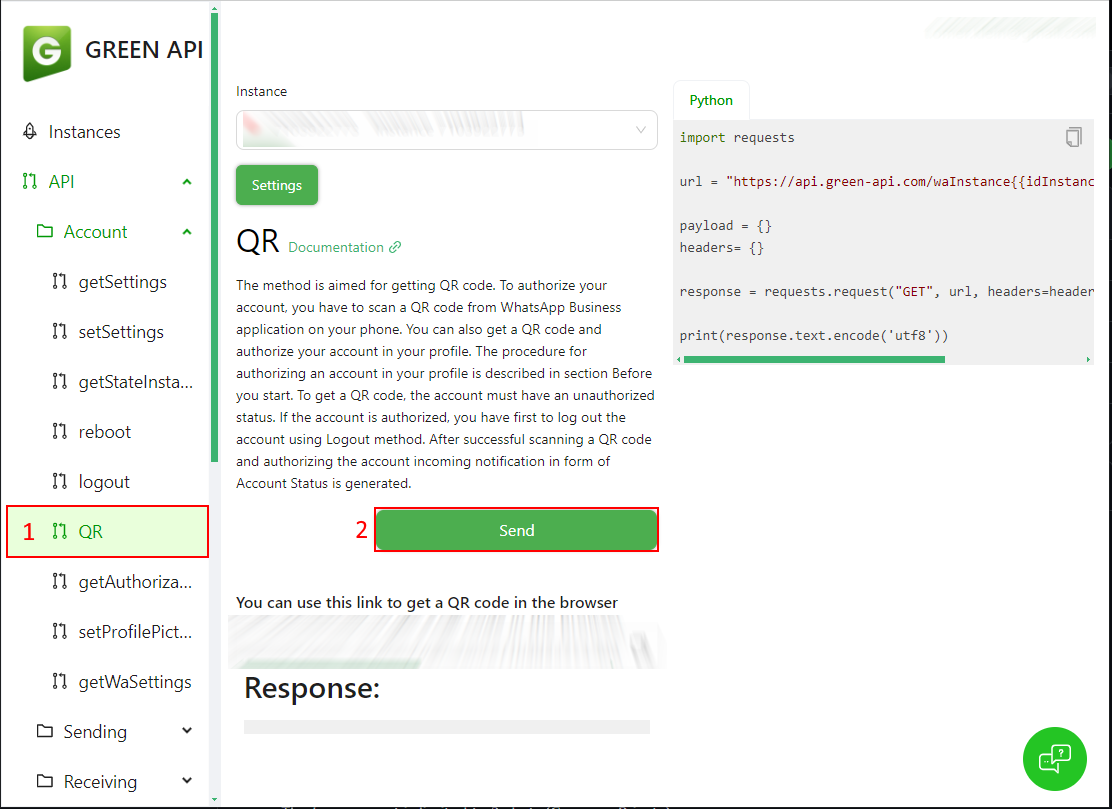
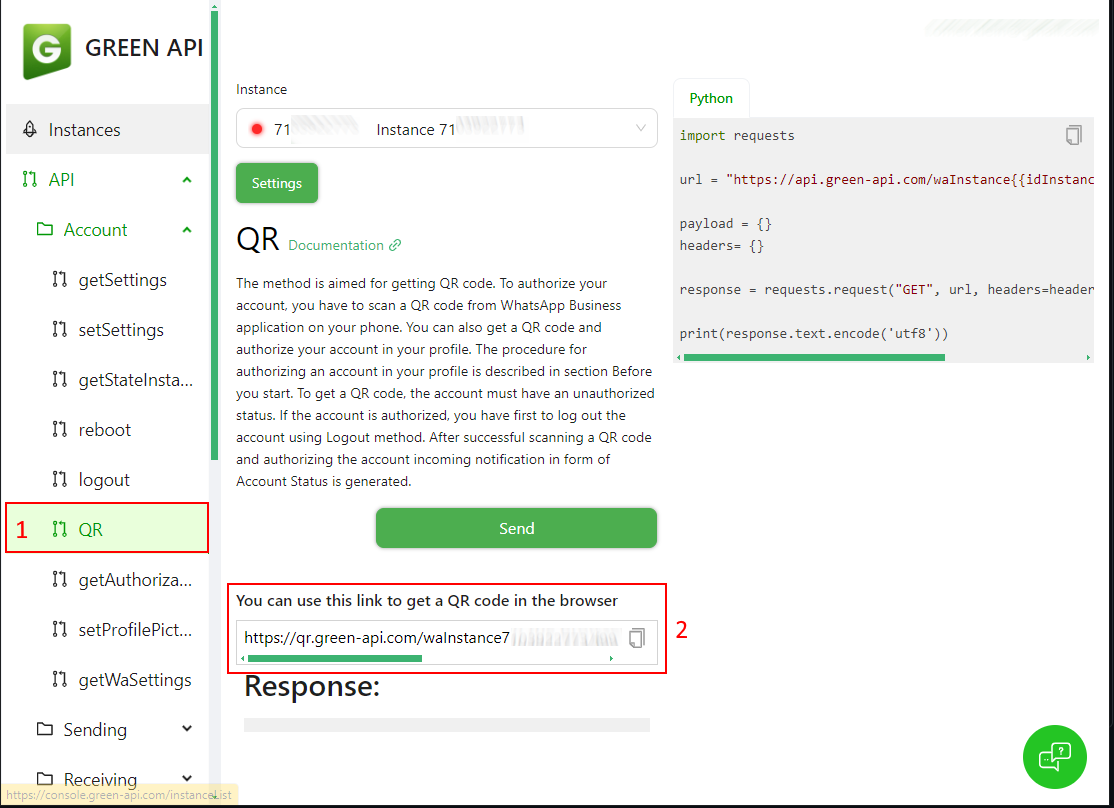
Update readme and add screenshots

diff --git a/README.md b/README.md
@@ -31,9 +31,17 @@ Select the "Developer" instance (Free):
 Copy the InstanceId and Token, we need it for the integration settings:
 ![Instance Details](screenshots/instance_details.png)
 
-Next, Lets connect our whatsapp with green-api. On the left side, Under API --> Account, click on QR, and then click the "Send" button:
+Next, Lets connect our whatsapp with green-api. On the left side, Under API --> Account, click on QR and copy the QR URL to the browser and click on "Scan QR code"
 
-![Link QR](screenshots/send_qr.png)
+![Send QR](screenshots/send_qr.png)
+
+![Scan QR](screenshots/scan_qr.png)
+
+Next, Scan the QR code to link you whatsapp with Green API:
+
+![QR Code](screenshots/qr.png)
+
+
 
 
 ```yaml
